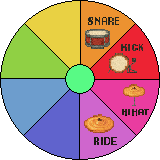
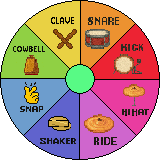
mixer functional (needs metronome integration), new sounds ready, semi-final sound change wheel
- mixer needs to add new dropdown boxes when new active rhythms are created
- soundchangewheel still blackens out text in the workspace menu
- decide how to work with activerhythm colors
- drag selection + copy/paste for active rhythms

diff --git a/rhythmGUI.py b/rhythmGUI.py
@@ -13,26 +13,24 @@ pygame.display.set_caption('The Rhythm Trainer')
 workingDisplay = pygame.Surface((disp_width,disp_height))
 workingDisplay.fill((120,130,130))
 sandboxBackdrop = pygame.Surface((disp_width,disp_height))
+pygame.mixer.set_num_channels(14)
 
 ### vars init ------------------------------------------------
 mode = 0
-updateNeeded = False
 rhyDotLen = 22
 rhythmIterator = 0
+subdivHighlighter = 0
 ghostIterator = [0]
-upDownClick = False  #up/core = 0, down/trivial = 1
 lastUpDownClicked = 0
-playbackClick = False
 lastPlaybackClicked = 0
 ctState = 0
 coresAndTrivials = [cores,trivials]
 clock = pygame.time.Clock()
 loadedSound = pygame.mixer.Sound('sounds/bongo4_cymatics.wav')
-# loadedSound2 = pygame.mixer.Sound('sounds/shaker6_cymatics.wav')
-sounds = [pygame.mixer.Sound(x) for x in ('sounds/snare.wav','sounds/kick.wav',
-                                          'sounds/ride.wav','sounds/hihat.wav')]
-subdivHighlighter = 0
 update_needed = False
+playbackClick = False
+upDownClick = False  #up/core = 0, down/trivial = 1
+updateNeeded = False
 
 ### Colors and fonts init -------------------------------------
 BLACK = (0,0,0)
@@ -44,8 +42,14 @@ homeFont = pygame.font.SysFont('Serif', 48)
 headerFont = pygame.font.SysFont('Serif',28)
 subHeaderFont = pygame.font.SysFont('Serif',22)
 miniFont = pygame.font.SysFont('Serif',16)
+tinyFont = pygame.font.SysFont('Serif', 10)
+
+### init for sound change wheel -------------------------------
 colors = [(236,146,48), (237,35,51), (207,102,205), (233,60,160),
           (233,209,67), (144, 208, 68), (96,99,205), (109, 157, 205)]
+text = ['Snare', 'Kick', 'Ride', 'Hihat']
+sounds = [pygame.mixer.Sound(x) for x in ('sounds/snare.wav','sounds/kick.wav',
+                                          'sounds/ride.wav','sounds/hihat.wav')]
 
 ### classes and groups ----------------------------------------
 sprites = pygame.sprite.Group()
@@ -68,6 +72,8 @@ class Button(pygame.sprite.Sprite):
                 self.status = 0
             self.image = pygame.image.load(self.graphics[self.status]).convert_alpha()
             self.rect = self.image.get_rect(topleft = pos)
+        if type == 'mixer':
+            self.mixing = False
         
     def click(self) -> None:   #toggle on/off 
         global ctState
@@ -130,6 +136,24 @@ class Button(pygame.sprite.Sprite):
                 print('guide screen')
             elif self.type[1] == 4:
                 print('settings screen')
+
+        elif self.type == 'mixer':
+            if self.mixing == False:
+                mixables = []
+                
+                for x in activeRhythms:
+                    if x.sound not in mixables:
+                        mixables.append(x.sound)
+                        W = DropdownBox(x.sound)
+                        sprites.add(W)
+                        sprites.add(W.slider)
+                        dropdownBoxes.add(W)
+                self.mixing = True
+            else:
+                for x in (dropdownBoxes.sprites(), sliders.sprites()):
+                    for y in x:
+                        y.kill()
+                self.mixing = False
 
     def update(self) -> None:
         if self.type[0] == 'CT':
@@ -325,16 +349,19 @@ class Highlighter(pygame.sprite.Sprite):
             for x in activeRhythms.sprites():
                 if self.rect.colliderect(x.rect):
                     highlighted_pos = self.grid_pos - x.grid_pos[0]
-                    print(self.grid_pos)
                     try:
                         if x.binary[highlighted_pos] == '1':
-                            self.sounds.append(sounds[x.sound])
+                            self.sounds.append(x.sound)
                     except IndexError: pass
 
     def play_sounds(self):
         if self.sounds:
             for x in self.sounds:
-                x.play()
+                if x == loadedSound:
+                    pygame.mixer.Channel(13).play(x)
+                else:
+                    pygame.mixer.Channel(x).stop
+                    pygame.mixer.Channel(x).play(sounds[x])
             self.sounds = []
 
     def reset(self):
@@ -404,9 +431,6 @@ class Timer:
             self.pulse(counters.sprites()[1].num, counters.sprites()[2].num)
         if self.AV:
             self.AV_update()
-        
-        
-
 timer = Timer()
 
 class SoundChanger(pygame.sprite.Sprite):
@@ -418,17 +442,74 @@ class SoundChanger(pygame.sprite.Sprite):
         self.deathWish = 0
     
     def octant_check(self, pos):
-        print('octant check')
         radius = ((pos[0] - self.rect.centerx)**2 + (pos[1] - self.rect.centery)**2)**(1/2)
         if radius < 81:
             LR: int = pos[0] < self.rect.centerx   #left true, right false
             UD: int = pos[1] > self.rect.centery   #down true, up false
             # y-hug false, x-hug true
             hug: int = (pos[0]-self.rect.centerx)**2 > (pos[1]-self.rect.centery)**2   
-            print('LR: {0}, UD: {1}, hug: {2}'.format(LR, UD, hug))
             octant = 4*LR + 2*UD + hug
             self.assocRhythm.soundChange(octant)
 soundChanger = pygame.sprite.GroupSingle()
+
+class DropdownBox(pygame.sprite.Sprite):
+    def __init__(self, sound: int):
+        pygame.sprite.Sprite.__init__(self)
+        self.sound = sound
+        self.image_and_rect()
+        self.slider = Slider(sound, self.rect.centery)
+        sliders.add(self.slider)
+
+    def image_and_rect(self):
+        self.positioning()
+        self.image = pygame.Surface((205, 43))
+        self.image.fill(colors[self.sound])
+        pygame.draw.rect(self.image, (0,0,0), (0,0,205,43), 1)
+        a = miniFont.render(text[self.sound], 1, BLACK)
+        self.image.blit(a, (4,18))
+        pygame.draw.rect(self.image, (240,240,240), (60,21,100,4))
+        self.rect = self.image.get_rect(topright = (disp_width, self.y_pos))
+
+    def positioning(self):
+        self.y_pos = 101 + 44 * len(dropdownBoxes.sprites()) 
+dropdownBoxes = pygame.sprite.Group()
+
+class Slider(pygame.sprite.Sprite):
+    def __init__(self, sound, y_pos):
+        pygame.sprite.Sprite.__init__(self)
+        self.sound = sound
+        self.y_pos = y_pos
+        self.value = int(pygame.mixer.Channel(self.sound).get_volume() * 100)
+        self.image_and_rect()
+        
+    def image_and_rect(self):    
+        self.image = pygame.Surface((18,18))
+        pygame.draw.rect(self.image, (250,250,250), (0,0,18,18))
+        pygame.draw.rect(self.image, (170,170,170), (0,0,18,18), width = 2)
+        self.text_update()
+        self.rect = self.image.get_rect(center = (disp_width - 145 + self.value, self.y_pos))
+
+    def text_update(self):
+        pygame.draw.rect(self.image, (250,250,250), (0,0,18,18))
+        pygame.draw.rect(self.image, (170,170,170), (0,0,18,18), width = 2)
+        self.text = str(self.value)
+        if len(self.text) < 3:
+            self.image.blit(tinyFont.render(self.text, 1, BLACK),(4,4))
+        else:
+            self.image.blit(tinyFont.render(self.text, 1, BLACK),(1,4))
+
+    def move(self, rel):
+        if self.value + rel > 100:
+            self.value = 100
+        elif self.value + rel < 0:
+            self.value = 0
+        else:
+            self.rect.move_ip(rel, 0)
+            self.value += rel
+        pygame.mixer.Channel(self.sound).set_volume(self.value / 100)
+        self.text_update()
+sliders = pygame.sprite.Group()
+clickedSlider = pygame.sprite.GroupSingle()
 
 ### global functions -----------------------------------------
 def top_menu_init():
@@ -502,19 +583,34 @@ def sprites_clicked(mouse_pos: tuple, mouse_buttons: tuple) -> None:
                     pickedUpRhythm.add(new_rhythm)
                     sprites.add(new_rhythm)
                 elif spr[x] in activeRhythms:
-                    if mouse_buttons[0] == True:
-                        pygame.mouse.get_rel()
-                        pickedUpRhythm.add(spr[x])
-                    elif mouse_buttons[2] == True:
-                        wheel = SoundChanger(mouse_pos, spr[x])
-                        soundChanger.add(wheel)
-                        sprites.add(wheel)
+                    if soundChanger.sprites():
+                        if soundChanger.sprite.rect.collidepoint(mouse_pos):
+                            soundChanger.sprite.octant_check(mouse_pos)
+                        else:
+                            if mouse_buttons[0] == True:
+                                pygame.mouse.get_rel()
+                                pickedUpRhythm.add(spr[x])
+                            elif mouse_buttons[2] == True:
+                                wheel = SoundChanger(mouse_pos, spr[x])
+                                soundChanger.add(wheel)
+                                sprites.add(wheel)
+                    else:
+                        if mouse_buttons[0] == True:
+                                pygame.mouse.get_rel()
+                                pickedUpRhythm.add(spr[x])
+                        elif mouse_buttons[2] == True:
+                            wheel = SoundChanger(mouse_pos, spr[x])
+                            soundChanger.add(wheel)
+                            sprites.add(wheel)
                 elif spr[x] in draggers:
                     pygame.mouse.get_rel()
                     clickedDragger.add(spr[x])
                 elif spr[x] in kernels:
                     pygame.mouse.get_rel()
                     clickedKernel.add(spr[x])
+                elif spr[x] in sliders:
+                    pygame.mouse.get_rel()
+                    clickedSlider.add(spr[x])
        
         # leave soundChanger up for 1 grace click before killing
         if len(soundChanger.sprites()):
@@ -612,6 +708,9 @@ def sandbox_init() -> None:
 
     highlighter.add(Highlighter())
 
+    buttons.add(Button(['images/mixer_button_unpressed.png', 'images/mixer_button_pressed.png',],
+                       (disp_width-100,72),('mixer')))
+    
     Display.blit(workingDisplay,(0,0))
     
     spritify()
@@ -632,18 +731,16 @@ pygame.display.update()
 
 ### game loop ------------------------------------------------
 while True:
-
+    # update timer if it's active
     if timer:
         if timer.active:
             timer.update()
-
     # picking up rhythms
     if len(pickedUpRhythm.sprites()):
         rel = pygame.mouse.get_rel()
         if rel[0]+rel[1]:
             pickedUpRhythm.sprite.move(rel)
         update_needed = True
-
     # dragging draggers
     if len(clickedDragger.sprites()):
         rel = pygame.mouse.get_rel()
@@ -652,25 +749,29 @@ while True:
         if rel[1] > 0:
             clickedDragger.update('down')
         update_needed = True
-
     # moving kernels
     if len(clickedKernel.sprites()):
         rel = pygame.mouse.get_rel()
         clickedKernel.sprite.move(rel[0])
         update_needed = True
-
-
+    # sliding sliders
+    if len(clickedSlider.sprites()):
+        rel = pygame.mouse.get_rel()
+        clickedSlider.sprite.move(rel[0])
+        update_needed = True
+    
     for event in pygame.event.get():
         if event.type == QUIT:
             pygame.quit()
             sys.exit()
 
-        # if event.type == KEYDOWN:
-        #     if event.key == 32:
-        #         if playing == True:
-        #             playing = 'paused'
-        #         else:
-        #             playing = True
+        if event.type == KEYDOWN:
+            if mode == 'sandbox':
+                if event.key == 32:
+                    if timer.active:
+                        timer.deactivate()
+                    else:
+                        timer = Timer(counters.sprites()[1].num, counters.sprites()[2].num)
 
         if event.type == MOUSEBUTTONDOWN:
             mouse_pos = pygame.mouse.get_pos()
@@ -712,19 +813,21 @@ while True:
                     pur.add(activeRhythms)
                 pickedUpRhythm.empty()
                 update_needed = True
-            
             # dropping dragger
             if len(clickedDragger.sprites()):
                 Display.blit(workingDisplay, (0,0))
                 clickedDragger.empty()
                 update_needed = True
-
             # dropping kernel
             if len(clickedKernel.sprites()):
                 clickedKernel.sprite.snap()
                 clickedKernel.empty()
                 update_needed = True
-
+            # dropping slider
+            if len(clickedSlider.sprites()):
+                clickedSlider.empty()
+                update_needed = True
+    
     if update_needed:
         update_all()
         update_needed = False
